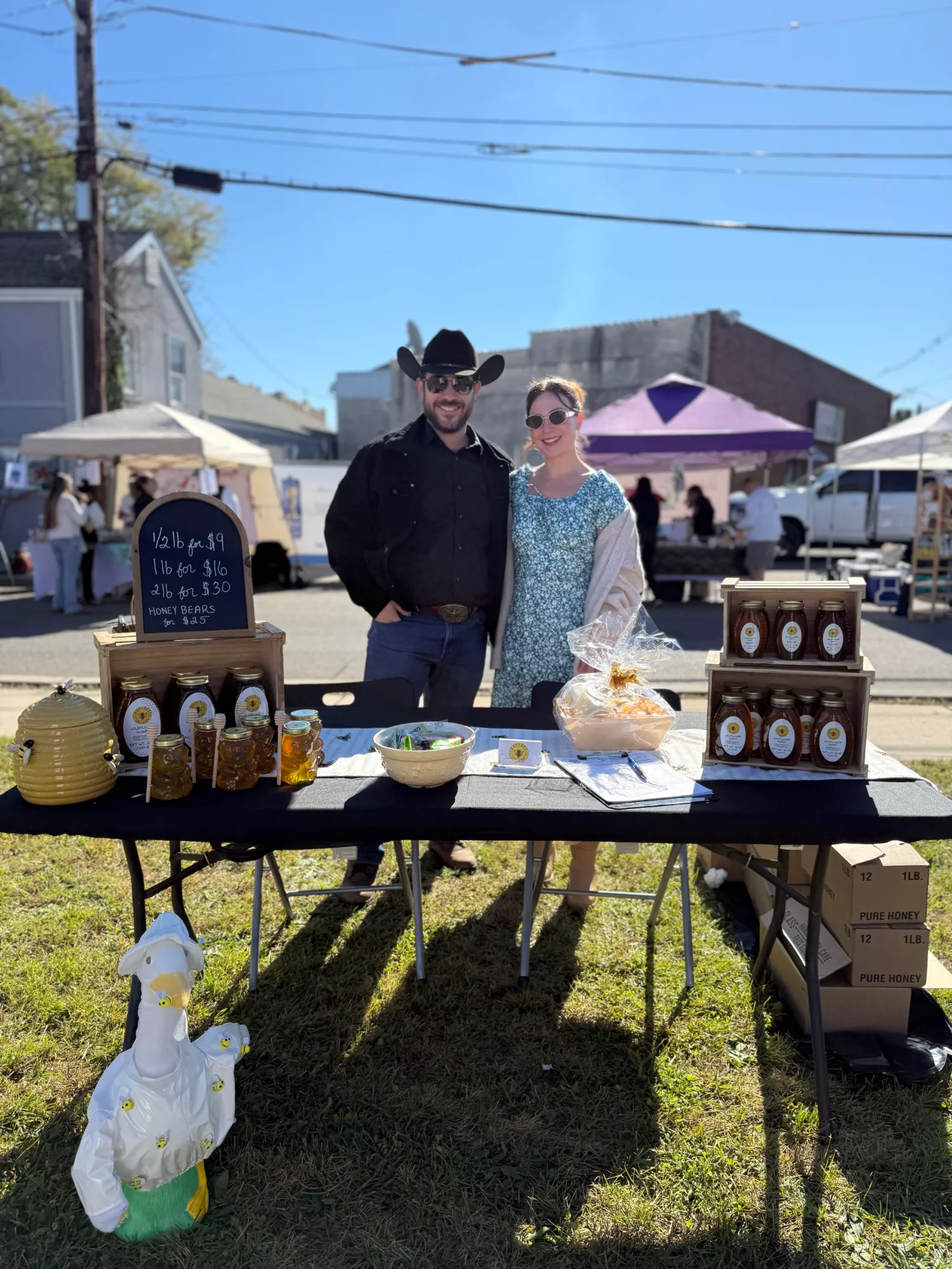
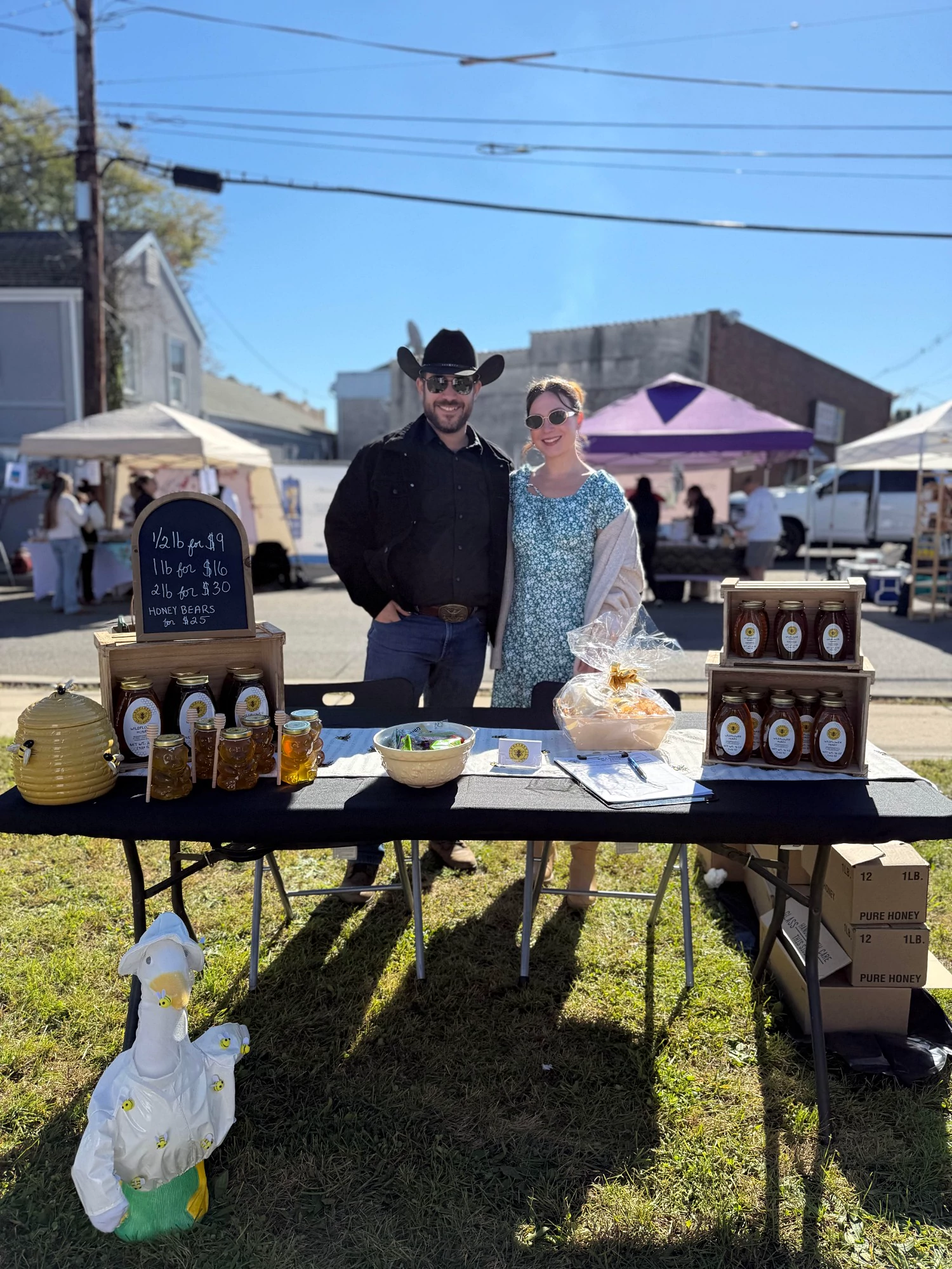
Sharper hero photo
- Phones with 2x screens were sent the 800px copy and stretched it 1.6x. The
  sizes hint now says the photo is drawn about 3/4 of the hero's height wide on
  portrait screens, so they get the full-size file.
- Dropped the slow zoom on the hero, which enlarged it 8% more and kept it
  soft while animating.
- Re-encoded from the original at WebP quality 90 with a light sharpen; the
  smaller copy is now 1000px.

diff --git a/public/assets/css/home.css b/public/assets/css/home.css
@@ -15,7 +15,7 @@
     text-align: center;
 }
 .hero-bg { position: absolute; inset: 0; }
-.hero-bg img { width: 100%; height: 100%; object-fit: cover; object-position: 50% 38%; animation: drift 24s ease-in-out infinite alternate; }
+.hero-bg img { width: 100%; height: 100%; object-fit: cover; object-position: 50% 38%; }
 .hero-bg::after {
     content: "";
     position: absolute;
@@ -23,7 +23,6 @@
     background:
         linear-gradient(to bottom, rgb(23 16 10 / 0.6), rgb(23 16 10 / 0.12) 20%, rgb(23 16 10 / 0.2) 40%, rgb(23 16 10 / 0.78) 68%, var(--night));
 }
-@keyframes drift { to { scale: 1.08; translate: 1% -1%; } }
 .hero-inner { position: relative; display: grid; justify-items: center; }
 .hero-logo { width: clamp(92px, 11vw, 168px); height: auto; margin-bottom: clamp(14px, 2vw, 24px); filter: drop-shadow(0 20px 40px rgb(0 0 0 / 0.45)); animation: rise 1.2s var(--ease) both, float 7s 1.2s ease-in-out infinite; }
 .hero h1 { font-size: clamp(42px, 9vw, 128px); animation: rise 1.2s .15s var(--ease) both; }
